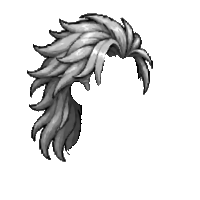
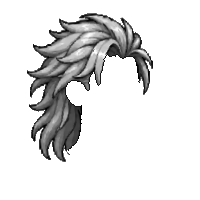
Hair: re-cut around the base ear, fill skull gaps, outline hair against skin
Claude-Session: https://claude.ai/code/session_01M8ejkLTav7LEMdtajuWjkN

diff --git a/art_source/new_art/portraits/process_hair.py b/art_source/new_art/portraits/process_hair.py
@@ -42,6 +42,56 @@ def landmarks(head):
     return float(ear), float(x1), float(chin)
 
 
+# The base head's ear (polygon traced on <sex>_head_skin.png, canvas pixels). The mannequin's ear is in a
+# slightly different place, so each style's hair is re-cut around this ear.
+EAR = {
+    'm': [(71, 81.5), (76.5, 81), (80.5, 82.5), (82.5, 86), (83, 91), (83.5, 96), (84.5, 103), (80, 105.5),
+          (75.5, 105), (71.5, 102), (68, 98), (66, 93), (66, 88), (68, 83.5)],
+    'f': [(75.5, 82.5), (80, 82), (84, 84.5), (85.5, 89), (85.5, 94), (86.5, 100), (83, 104.5), (79, 104.5),
+          (75, 102), (71.5, 97), (70.5, 92), (71, 87), (73, 84)],
+}
+
+
+def ear_mask(poly):
+    from PIL import ImageDraw
+    im = Image.new('L', (200, 200), 0)
+    ImageDraw.Draw(im).polygon(poly, fill=1)
+    return np.asarray(im).astype(bool)
+
+
+def attach(img, B, mann, ear_poly, style):
+    """Make the hair sit cleanly on the base head:
+    1. ear: if the style left the mannequin's ear visible, the base ear is cut out of the hair (ear in front);
+       if the style covered the ear, the hair stays over it.
+    2. gaps: bald skull that shows between hair and face (because the mannequin is shaped a little differently)
+       is filled with the nearest hair.
+    3. outline: a 1-px dark line where the hair meets visible skin, like the drawn outline on the outer edge."""
+    E = ear_mask(ear_poly)
+    hair = img[..., 3] > 0
+    val = img[..., 0].astype(float)
+    ear_hidden = (hair & E).sum() / E.sum()
+    if ear_hidden < 0.5:
+        hair = hair & ~E
+    # gaps: skull above the ear/face line not covered by hair or the mannequin's visible skin
+    top_of_face = ear_poly and min(y for _, y in ear_poly)
+    gap = B & ~hair & ~mann & ~E
+    gap &= ndi.binary_dilation(hair, iterations=3)
+    if gap.any():
+        idx = ndi.distance_transform_edt(~hair, return_distances=False, return_indices=True)
+        val[gap] = val[idx[0][gap], idx[1][gap]]
+        hair = hair | gap
+    # outline against visible skin
+    skin = B & ~hair
+    edge = hair & ndi.binary_dilation(skin, structure=[[0, 1, 0], [1, 1, 1], [0, 1, 0]])
+    val[edge] = np.minimum(val[edge], 22)
+    out = img.copy()
+    for c in range(3): out[..., c] = np.where(hair, val, 0).astype(np.uint8)
+    out[..., 3] = np.where(hair, 255, 0)
+    print(f'  {style}: ear {"covered" if ear_hidden >= 0.5 else "in front"} ({ear_hidden:.0%} under hair), '
+          f'{int(gap.sum())} gap px filled')
+    return out
+
+
 def main(sex):
     a = np.asarray(Image.open(os.path.join(HERE, 'source', f'hair_{sex}_sheet.png')).convert('RGB')).astype(int)
     r, g, b = a[..., 0], a[..., 1], a[..., 2]
@@ -139,6 +189,7 @@ def main(sex):
         img = np.zeros((200, 200, 4), np.uint8)
         for c in range(3): img[..., c] = gray
         img[..., 3] = np.where(wm > 0.45, 255, 0)
+        img = attach(img, B, warp(Cmm, best) > 0.5, EAR[sex], style)
         fits[style] = dict(fit, cost_before=int(cost(p0)), cost_after=int(cost(best)))
         Image.fromarray(img).save(os.path.join(HERE, f'{sex}_hair_{style}.png'))
         out[style] = img

diff --git a/art_source/new_art/README.md b/art_source/new_art/README.md
@@ -12,7 +12,10 @@
 - `source/hair_m_sheet.png` + `process_hair.py m` - 12 male hairstyles (ChatGPT sheet: grayscale hair on a green
   mannequin). Each style is cut out, the mannequin and its outline removed, scaled and placed on `m_head_skin.png`
   by matching the mannequin's ear, face front and chin, then refined per style with a small affine fit (scale x/y,
-  rotation, shift; `hair_fit_m.json`) so the mannequin lies on the base head and no bald skull shows past the hair. Output `m_hair_<style>.png`: 200x200 **hair value maps**
+  rotation, shift; `hair_fit_m.json`) so the mannequin lies on the base head and no bald skull shows past the hair.
+  Then each style is re-cut around the base head's own ear (polygon `EAR` in the script, traced on the head): the ear
+  sits in front of the hair unless the style covers it, small skull gaps are filled with the nearest hair, and a
+  1-px dark line is drawn where hair meets skin. Output `m_hair_<style>.png`: 200x200 **hair value maps**
   (tinted with the 10 hair ramps). Styles: messy, sidepart, spiky, crewcut, slicked, shaggy, ponytail, long
   (the game's existing 8) + topknot, braided_mohawk, wild_mane, knight_cut (new).
   `preview_hair_m.png`: each style tinted on the base head, then the raw value maps.
